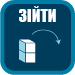
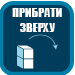
Different edits

diff --git a/scripts/mygame.js b/scripts/mygame.js
@@ -638,7 +638,7 @@ se.gameReady = function () {
 		new Sprite("balon_msg", 200,200), 	bt_next_tutorial, bt_close_tutorial, bt_prior_tutorial,	
 		new Text('Щоб спустити Кодебо', 230, 255, '#000', 25),
 		new Text('скористайтеся командою', 230, 280, '#000', 25),
-        new Text('"ЗІЙТИ"', 230, 305, '#000', 25),
+        new Text('"ПРИБРАТИ ЗВЕРХУ"', 230, 305, '#000', 25),
 		new Sprite("button_stack_pop", 370, 530, 60, 60)
 	]);
 	
